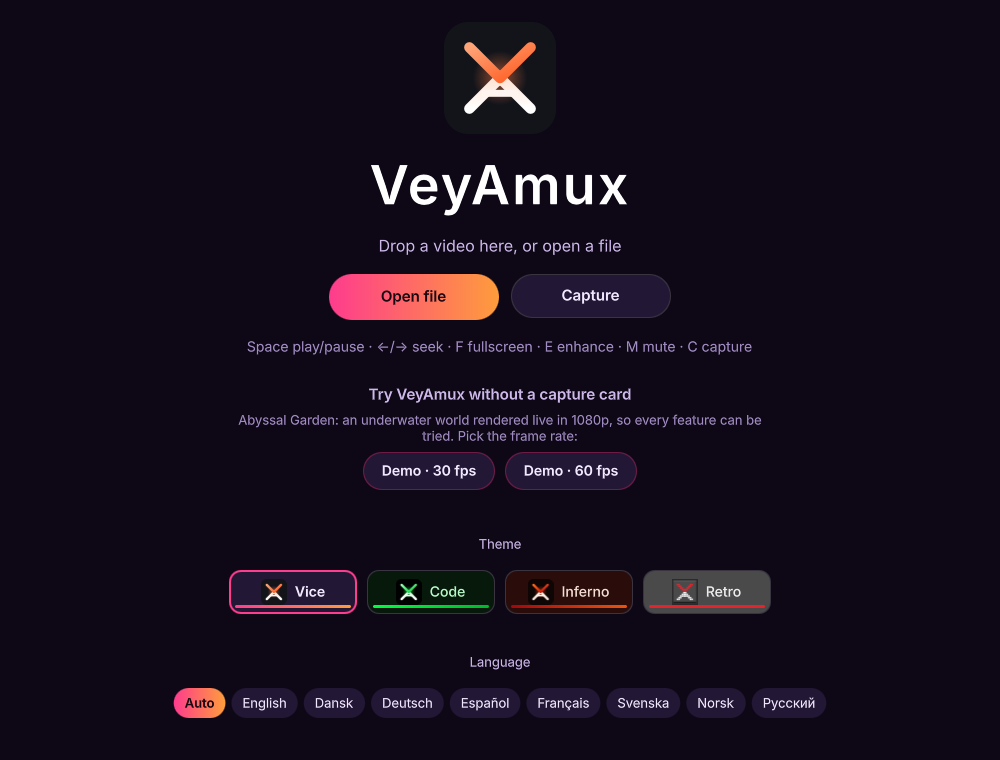
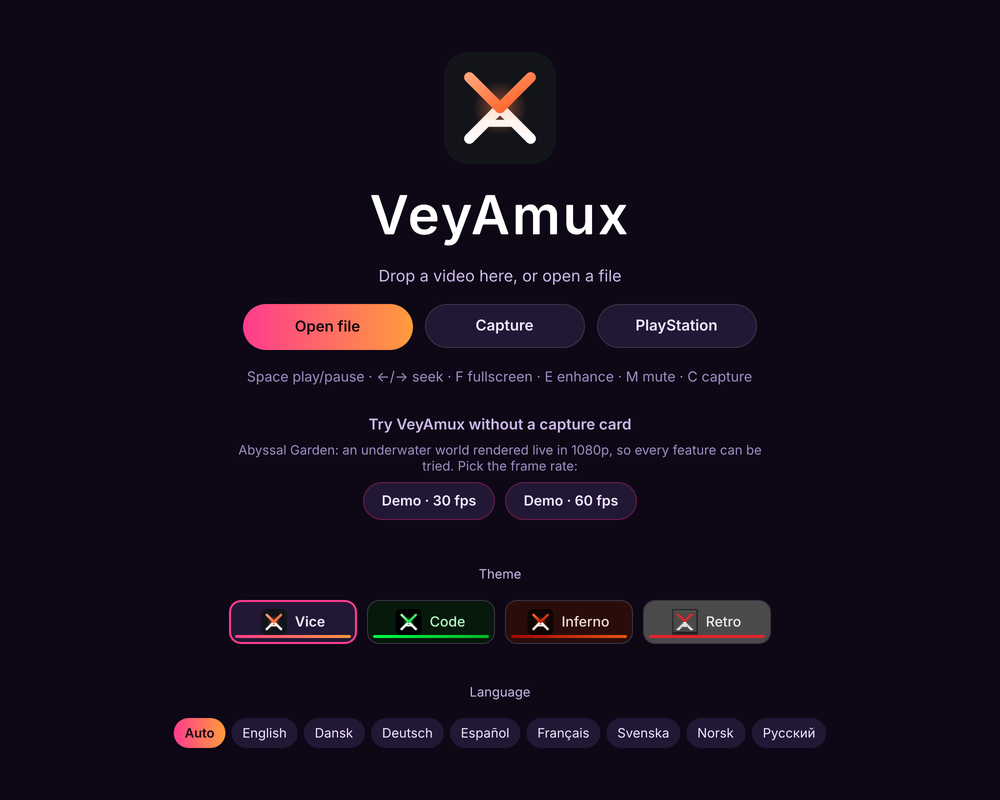
README: VeyAmux-V.1.2 (Remote Play, Steam Deck, FSR 3.1.6) with new screenshots
New start screen (PlayStation button), the Remote Play window and the full-window menu on a
1280x800 handheld screen.

Claude-Session: https://claude.ai/code/session_01B4TdVpLCa5512iQxziCMJs

diff --git a/README.md b/README.md
@@ -10,26 +10,27 @@
 </p>
 
 <p align="center">
-  Upscaling (FSR&nbsp;1 · NIS · FSR&nbsp;3.1) · noise reduction · frame generation (Lossless Scaling or free FSR&nbsp;3.1) ·
-  HDR · Retro TV (CRT) and pixel-perfect scaling · replay, recording and live streaming · window or screen as a source ·
-  built-in 3D demo · controller support · 8 languages
+  Upscaling (FSR&nbsp;1 · NIS · FSR&nbsp;3.1.6) · noise reduction · frame generation (Lossless Scaling or free FSR&nbsp;3.1.6) ·
+  HDR · <b>PlayStation Remote Play</b> (PS5 / PS4) · Retro TV (CRT) and pixel-perfect scaling · replay, recording and
+  live streaming · window or screen as a source · built-in 3D demo · controller support · Steam Deck · 8 languages
   <br>
   <a href="https://github.com/8BiTw0LF/VeyAmux/releases/latest"><b>Download the latest release</b></a> ·
-  GPL-3.0 · Linux port of <a href="https://github.com/Likely7/Veyra-NRVideo">Veyra-NRVideo 2.1.5</a>
+  GPL-3.0 (the program: AGPL-3.0, see below) · Linux port of <a href="https://github.com/Likely7/Veyra-NRVideo">Veyra-NRVideo 2.1.5</a>
 </p>
 
 <p align="center">
-  <img src="docs/images/start.png" width="560" alt="VeyAmux start screen with the Open file and Capture buttons, the demo buttons (30 and 60 fps), the four themes and the language choice">
+  <img src="docs/images/start.png" width="560" alt="VeyAmux start screen with the Open file, Capture and PlayStation buttons, the demo buttons (30 and 60 fps), the four themes and the language choice">
 </p>
 
 ---
 
 ## What is VeyAmux?
 
-VeyAmux shows the picture from a **capture card** (a PlayStation, Xbox, Switch or another PC), from a **window or a
-whole screen** on your desktop, or from a **video file**, and makes it look better on your graphics card. It can:
+VeyAmux shows the picture from a **capture card** (a PlayStation, Xbox, Switch or another PC), straight from a
+**PS5 or PS4 over your home network** (PlayStation Remote Play, no capture card needed), from a **window or a whole
+screen** on your desktop, or from a **video file**, and makes it look better on your graphics card. It can:
 
-- **upscale and sharpen** the picture with AMD FSR 1, NVIDIA Image Scaling (NIS), AMD FSR 3.1 or Lanczos;
+- **upscale and sharpen** the picture with AMD FSR 1, NVIDIA Image Scaling (NIS), AMD FSR 3.1.6 or Lanczos;
 - **remove noise**, grain and compression blocks;
 - **double or triple the frame rate** with Lossless Scaling, or double it for free with AMD FSR 3.1.6 frame generation (switch between them in the menu);
 - **handle HDR**: tone-map HDR games for an SDR screen, or send real HDR to an HDR screen;
@@ -38,7 +39,8 @@ whole screen** on your desktop, or from a **video file**, and makes it look bett
 - **record, keep an instant replay and stream** to Twitch or YouTube, all encoded on the graphics card.
 
 No capture card yet? The **built-in demo** renders a live 3D underwater world, so you can try all of it right away. The
-menu can also be steered with a **game controller**.
+menu can also be steered with a **game controller**, and on the **Steam Deck** and other handhelds it fills the screen
+and works with touch.
 
 It runs on most distributions without installing anything, and it is built for **low latency**. A captured frame is
 uploaded to the GPU once, and everything else happens there. VeyAmux needs well under 1 ms of CPU time per 4K frame.
@@ -52,7 +54,7 @@ Developed and tested on **Bazzite** (KDE Plasma) with an **AMD RX 9070 XT** and 
 
 <p align="center">
   <img src="docs/images/menu.png" width="628" alt="Part of VeyAmux's menu: upscaling with NIS, noise reduction, HDR, anti-aliasing, sound output with a live spectrum, Retro TV, Steam, OBS, instant replay and live streaming">
-  <br><sub>Part of the menu (P). The whole menu sits beside the picture, with everything visible at once and no scrolling.</sub>
+  <br><sub>Part of the menu (P). On a desktop screen the whole menu sits beside the picture, with everything visible at once and no scrolling; on handhelds it fills the screen.</sub>
 </p>
 
 ## What do I need?
@@ -63,7 +65,8 @@ needed for its own frame generation**, and everything else works without it:
 | Feature | VeyAmux alone | + Lossless Scaling and lsfg-vk |
 |---|:---:|:---:|
 | Capture cards, video files, windows and screens | ✅ | ✅ |
-| Upscaling: FSR 1, NIS, FSR 3.1, Lanczos | ✅ | ✅ |
+| PlayStation Remote Play (PS5 / PS4 on the home network) | ✅ | ✅ |
+| Upscaling: FSR 1, NIS, FSR 3.1.6, Lanczos | ✅ | ✅ |
 | Noise reduction, sharpness, anti-aliasing (FXAA), colour | ✅ | ✅ |
 | HDR capture, HDR video files, HDR output, VRR mode | ✅ | ✅ |
 | Retro TV (CRT-Geom), pixel-perfect scaling | ✅ | ✅ |
@@ -107,6 +110,10 @@ needed for its own frame generation**, and everything else works without it:
     game reaches the controller.
   - **Delay:** the frame-time overlay (**F3**) shows the network, decoding and VeyAmux delay, their total, the bitrate
     and the packet loss. The console's own encoding (about 5–10 ms) cannot be measured.
+  <p align="center">
+    <img src="docs/images/remote-play.png" width="520" alt="The PlayStation Remote Play window: the linked PlayStation Network account, a registered PS5 with Play, login passcode and Forget, and the picture choices 720p/1080p, 30/60 fps and HDR">
+    <br><sub>The Remote Play window (example console).</sub>
+  </p>
   - Built on the protocol library of [chiaki-ng](https://github.com/streetpea/chiaki-ng). Only on the local network for
     now (not over the internet).
 - **Capture cards** (V4L2 / UVC): every mode the card offers (NV12, YUYV, UYVY, P010 HDR, I420, RGB, MJPEG), the best
@@ -122,7 +129,7 @@ needed for its own frame generation**, and everything else works without it:
 - **Upscaling** 1.5× / 2× / 3×:
   - **AMD FSR 1**: edge-aware upscaling with sharpening, frame by frame, no added latency.
   - **NVIDIA Image Scaling (NIS)**: directional scaling with adaptive sharpening, on any GPU.
-  - **AMD FSR 3.1**: temporal upscaling, fed by VeyAmux's own motion estimation.
+  - **AMD FSR 3.1.6**: temporal upscaling, fed by VeyAmux's own motion estimation.
   - **Lanczos**: sharp and classic.
 - **Noise reduction**: *Spatial*, *Temporal* (motion-compensated) or *Both*, in three strengths. It removes grain,
   dithering and compression noise, so *Sharpness* can be raised without sharpening the noise.
@@ -195,6 +202,11 @@ needed for its own frame generation**, and everything else works without it:
   pause), and the right touchpad works as a mouse. On handhelds (Steam Deck, ROG Ally, Legion Go and other screens
   under about 10") and in small windows the menu fills the whole window at a readable size and scrolls; **✕** in the
   corner closes it.
+
+  <p align="center">
+    <img src="docs/images/handheld-menu.jpg" width="640" alt="VeyAmux's menu on a 1280×800 handheld screen: it fills the screen in two columns with large text and a close button in the corner">
+    <br><sub>The menu on a 1280×800 handheld screen (Steam Deck size).</sub>
+  </p>
 - **Updates through Gear Lever / AppImageUpdate** (only the changed parts are downloaded).
 - **Four themes**, chosen on the start screen, and the logo changes with them:
   - **Vice**: violet with a pink-to-orange sunset gradient.
@@ -319,7 +331,7 @@ Veyra's original HLSL shaders are reused, compiled to SPIR-V. Built for Linux:
 - **Capture:** the low-latency capture path (V4L2 straight into the UI's Vulkan frame, with format conversion on the
   GPU), the content measurement (real frame rate and rendering resolution), and the window and screen source (portal
   and PipeWire).
-- **Processing:** FSR 1, NIS and FSR 3.1 upscaling with VeyAmux's own motion estimation, noise reduction, FSR 3.1.6 frame
+- **Processing:** FSR 1, NIS and FSR 3.1.6 upscaling with VeyAmux's own motion estimation, noise reduction, FSR 3.1.6 frame
   generation, HDR output and Retro TV.
 - **Output:** recording, replay and streaming, and the Lossless Scaling integration.
 
